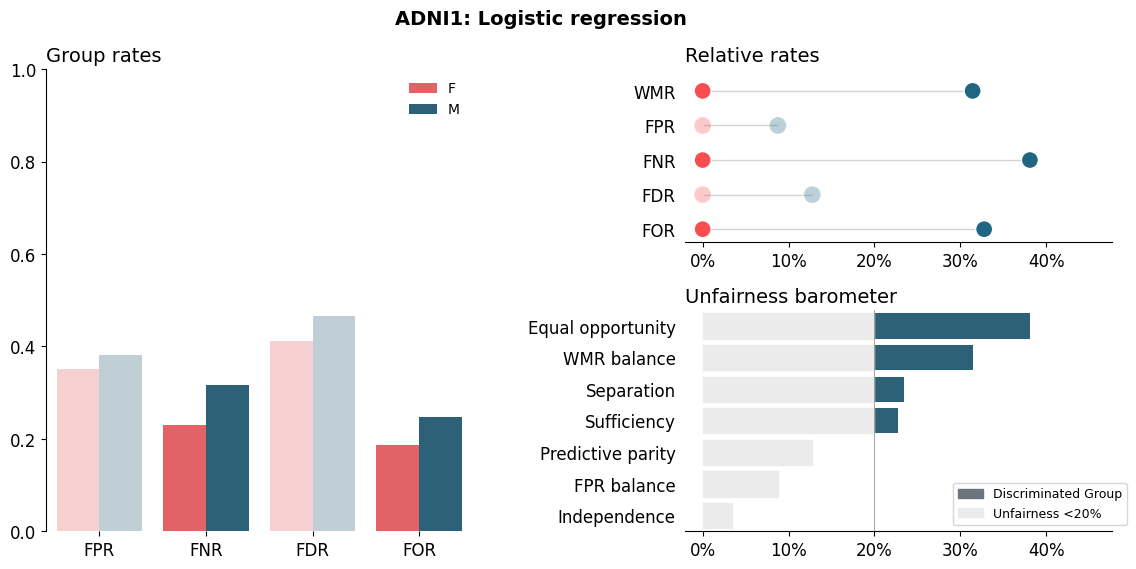
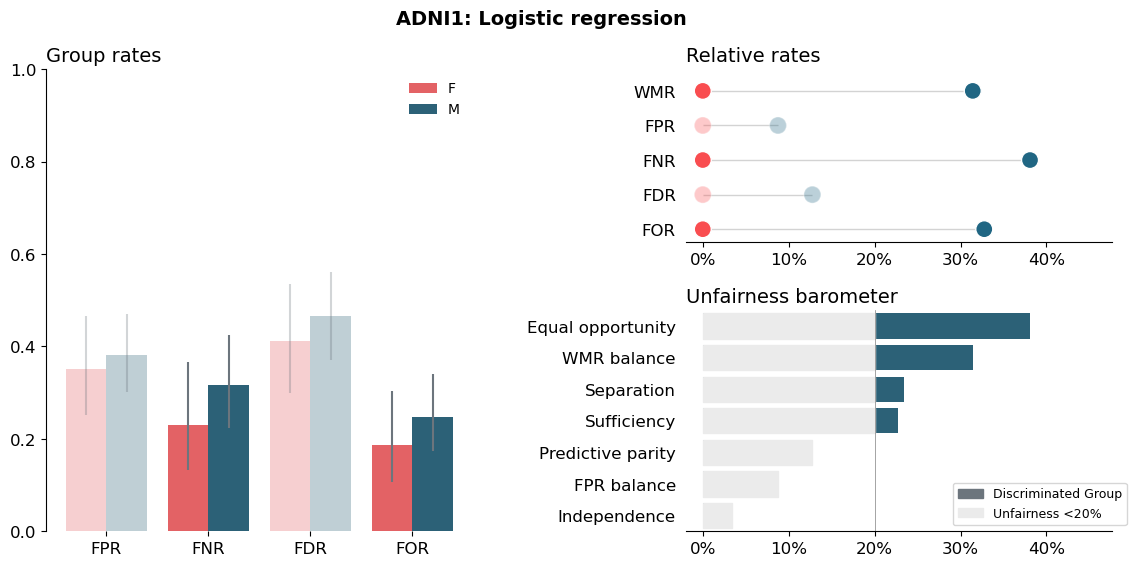
Update l2 plots

diff --git a/src/visualization_description/evaluater.py b/src/visualization_description/evaluater.py
@@ -8,7 +8,18 @@ from src.evaluation_tool.utils import static_split
 
 #%% Initialize parameters
 figure_path = 'figures/evaluation_plots/'
-fig_path_report = '../Thesis-report/00_figures/evalL2/'
+fig_path_report_l2 = '../Thesis-report/00_figures/evalL2/'
+fig_path_report_l3 = '../Thesis-report/00_figures/evalL3/'
+
+l3_report_plots = {
+    'german_logreg': 'confusion_matrix',
+    'german_nn': 'confusion_matrix',
+    'taiwanese_logreg': 'roc_curves',
+    'catalan_logreg': 'roc_curves',
+    'catalan_logreg': 'independence_check',
+    'catalan_logreg': 'w_fp_influence',
+    'adni2_nn': 'calibration'
+}
 
 update_figures  = True
 update_report_figures = True # Write new figures to report repository?
@@ -215,27 +226,36 @@ if __name__ == '__main__':
 
     l1tab = get_l1_overview_table()
 
-    run_plots = False
-    if run_plots: 
+    run_all_plots = True
+    if run_all_plots: 
         # Make all(!) plots as png 
         for i, (mod_name, kit) in enumerate(FairKitDict.items()):
             print(i)
             path = figure_path + mod_name + '_'
             make_all_plots(kit, 
                 save_plots = update_figures,
-                plot_path = path,
-                **{"run_layer_2":True})
+                plot_path = path)
         
-        # Make all L2 plots as pdf 
+    run_l2_plots = False
+    if run_l2_plots:
         for i, (mod_name, kit) in enumerate(FairKitDict.items()):
             print(i)
             if mod_name == "anym":
                 continue
-            path = fig_path_report + mod_name + '_'
+            path = fig_path_report_l2 + mod_name + '_'
             make_all_plots(kit, 
                 save_plots = update_report_figures,
                 plot_path = path,
                 ext = ".pdf",
                 **{"run_layer_2":True})
+    
+    run_l3_plots = False
+    if run_l3_plots:
+        for dataset, method in l3_report_plots.items():
+            FairKitDict[dataset].layer_3(method = method)
+            if update_report_figures:
+                path = fig_path_report_l3 + dataset + '_' + method + '.pdf'
+                print(path)
+                plt.savefig(path, bbox_inches='tight', facecolor = 'w')
 
 # %%

diff --git a/src/evaluation_tool/layered_tool.py b/src/evaluation_tool/layered_tool.py
@@ -570,7 +570,7 @@ class FairKit:
             plt.title(f'{str.title(grp)} (N = {n_obs})', size=self._title_size)
             f.subplots_adjust(wspace = 0.4, hspace = 0.4)
             if self.model_name != None:
-                f.suptitle(f"Confusion Matrices: {self.model_name}",
+                f.suptitle(f"{self.model_name}",
                     fontsize = self._title_size, horizontalalignment='center',
                     y = 1.05)
             
@@ -580,7 +580,7 @@ class FairKit:
         if w_fp is None:
             w_fp = self.w_fp
         plot_df = (
-            fair_anym.rates[fair_anym.rates.rate.isin(rate_names)]
+            self.rates[self.rates.rate.isin(rate_names)]
             .assign(
                 conf_lwr = lambda x: x.rate_val_lwr,
                 conf_upr = lambda x: x.rate_val_upr))
@@ -606,8 +606,8 @@ class FairKit:
 
         # Set alpha values and error bars manually
         containers = flatten_list(ax.containers) # order = from left to right by group
-        rates = rate_names*fair_anym.n_sens_grps
-        groups = flatten_list([[grp]*4 for grp in fair_anym.sens_grps])
+        rates = rate_names*self.n_sens_grps
+        groups = flatten_list([[grp]*4 for grp in self.sens_grps])
         for bar, rate, grp in zip(containers, rates, groups):
             alpha = alpha_weights[rate]
             bar.set_alpha(alpha)
@@ -794,6 +794,7 @@ class FairKit:
             t_dict = threshold
         
         # Select points corresponding to thresholds
+        # To do: Put error bars on this
         threshold_points = []
         for grp in self.sens_grps:
             t = t_dict[grp]
